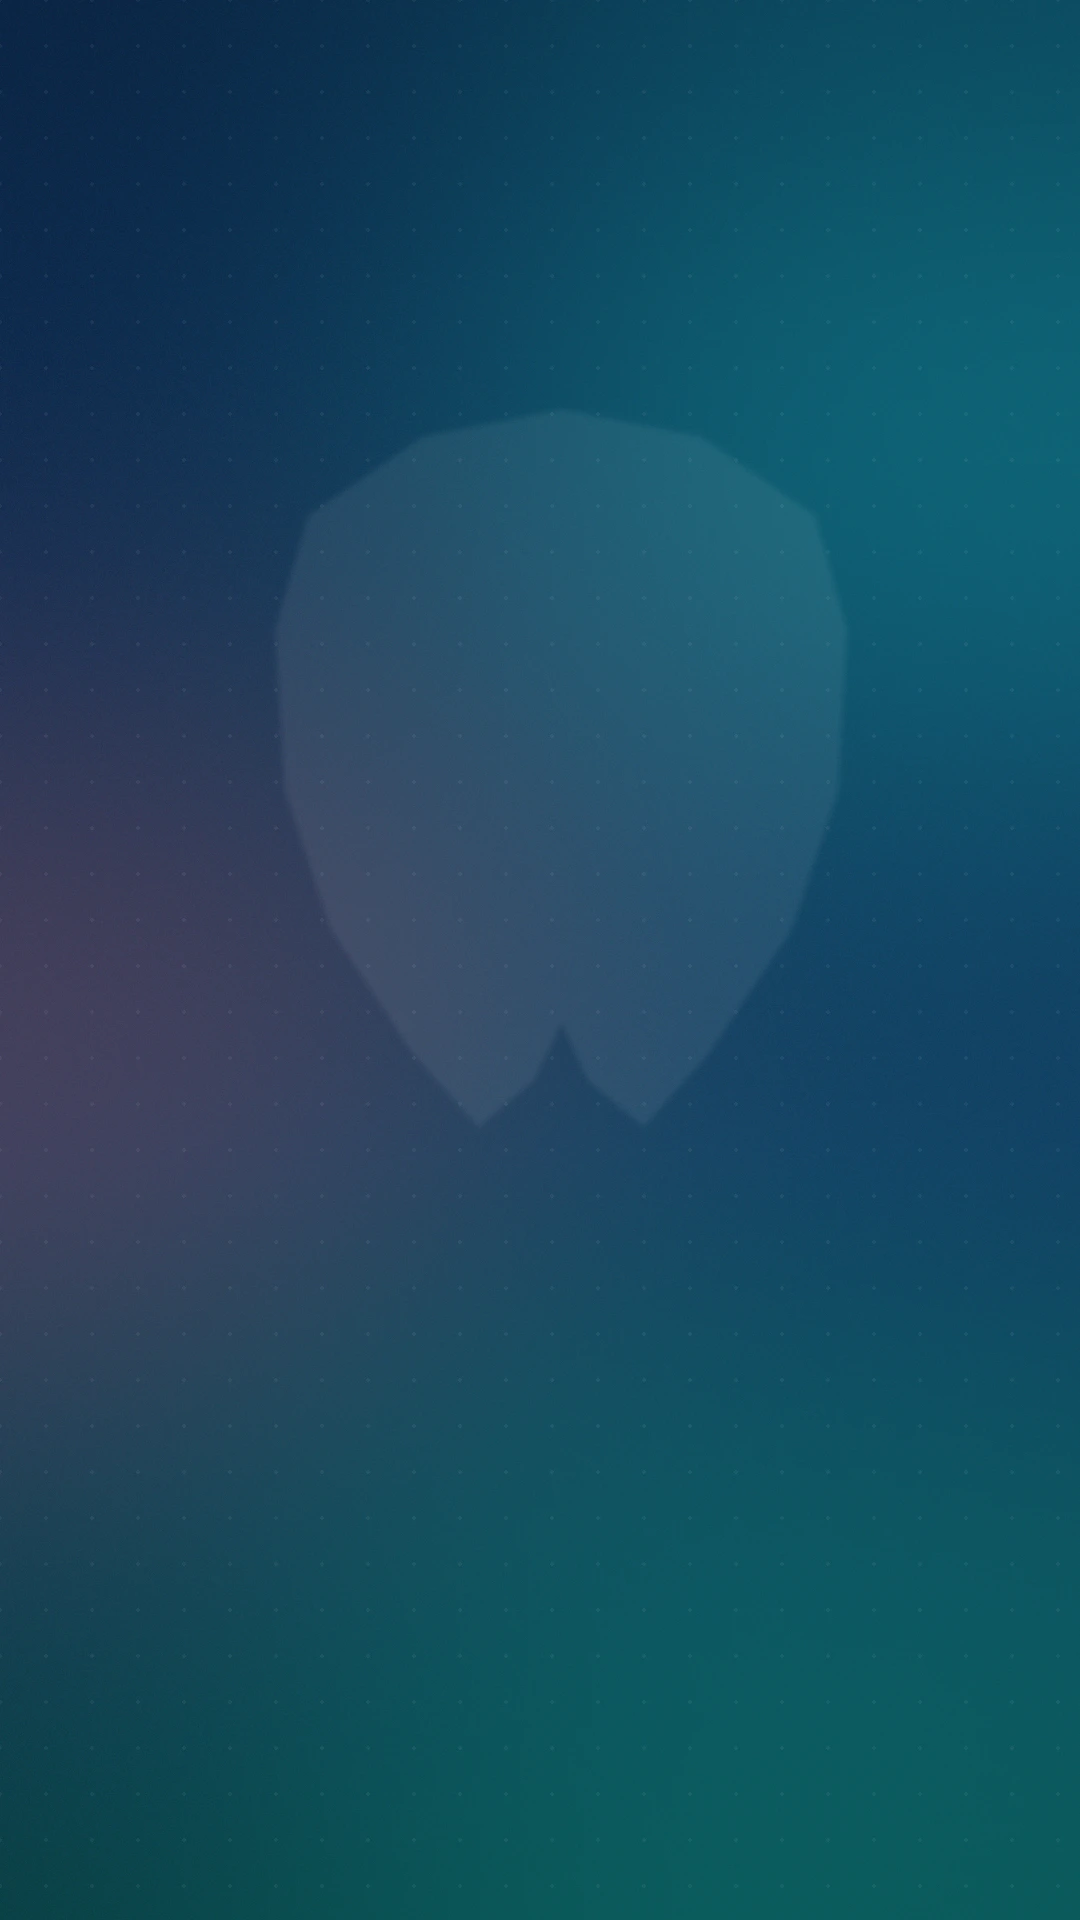
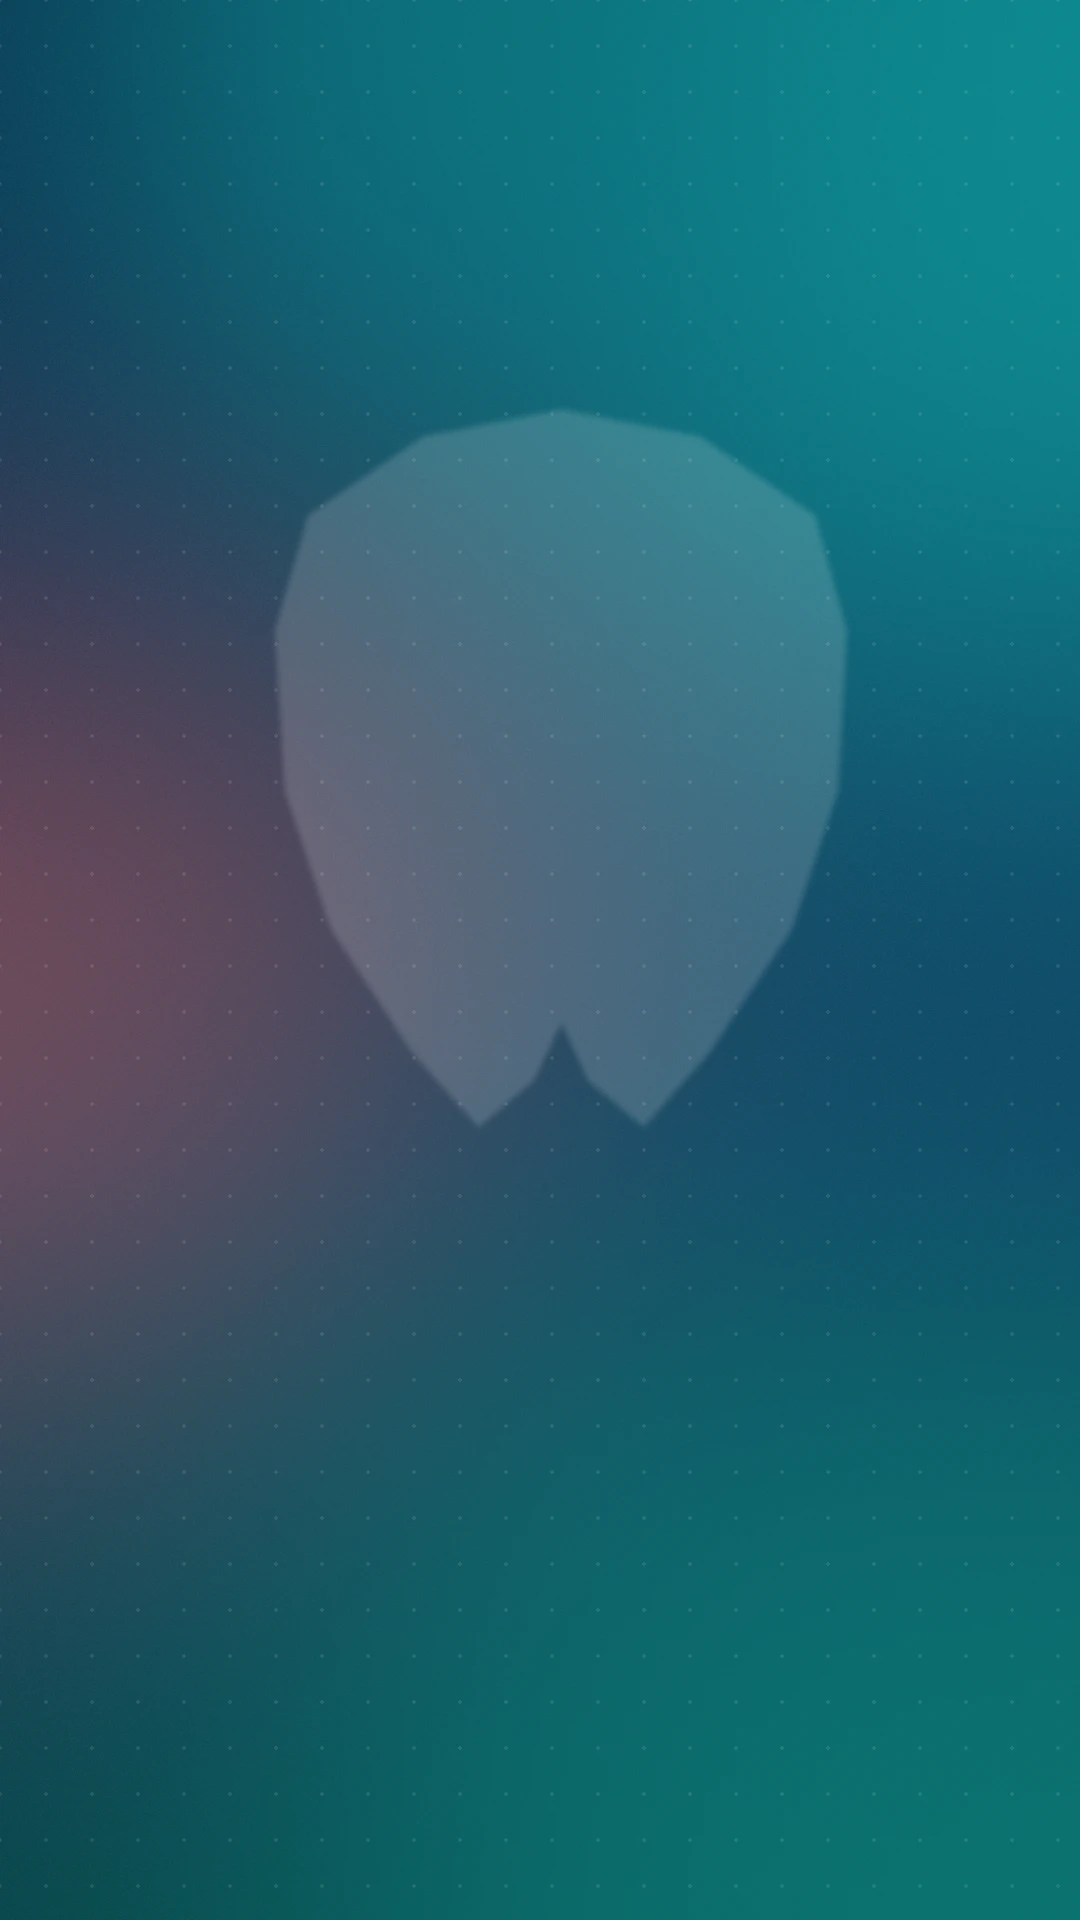
Popravi hero razmak i redizajniraj mobilnu pretragu
Hero sekcija je gubila levo/desno razmak jer je padding shorthand na
.hero-inner gazio horizontalni padding nasleđen od .container — sada
se koriste odvojena padding-top/padding-bottom svojstva. Pozadinska
slika hero sekcije je osvežena da bude vidljivija (jača providnost
gradijenta i markera).

Stranica Pronađi ordinaciju na mobilnom sada ima kompaktan gornji red
(polje za pretragu + dugme "Filteri" koje otvara fioku sa svim
filterima), listu ordinacija ispod, i plutajuće dugme na dnu ekrana
za prebacivanje između liste i mape prikaza.

diff --git a/css/style.css b/css/style.css
@@ -210,7 +210,7 @@ svg{display:block;}
   background:linear-gradient(180deg,rgba(6,25,45,.42),rgba(6,25,45,.56)),
     url('../img/hero.webp') center/cover no-repeat;
 }
-.hero-inner{position:relative;z-index:2;width:100%;padding:80px 0 64px;}
+.hero-inner{position:relative;z-index:2;width:100%;padding-top:80px;padding-bottom:64px;}
 .hero-badge{
   display:inline-flex;align-items:center;gap:8px;background:rgba(255,255,255,.12);
   border:1px solid rgba(255,255,255,.25);padding:8px 16px;border-radius:999px;
@@ -395,12 +395,19 @@ svg{display:block;}
   background:#fff;border-bottom:1px solid var(--border);padding:18px 0;position:sticky;top:76px;z-index:100;
 }
 .toolbar-row{display:flex;gap:12px;align-items:center;flex-wrap:wrap;}
-.toolbar-row .control{
+.toolbar-row .control,#mobileFilterExtraSlot .control{
   display:flex;align-items:center;gap:8px;border:1.5px solid var(--border);border-radius:10px;padding:10px 14px;background:#fbfdfd;flex:1;min-width:180px;
 }
-.toolbar-row .control svg{width:17px;height:17px;color:var(--primary);flex-shrink:0;}
-.toolbar-row select,.toolbar-row input{border:none;background:transparent;outline:none;width:100%;font-size:14px;}
+.toolbar-row .control svg,#mobileFilterExtraSlot .control svg{width:17px;height:17px;color:var(--primary);flex-shrink:0;}
+.toolbar-row select,.toolbar-row input,#mobileFilterExtraSlot select,#mobileFilterExtraSlot input{border:none;background:transparent;outline:none;width:100%;font-size:14px;}
 .toolbar-row .btn{flex-shrink:0;}
+.toolbar-selects{display:contents;}
+.mobile-filter-btn{
+  display:none;flex-shrink:0;align-items:center;gap:7px;height:44px;padding:0 16px;
+  border:1.5px solid var(--border);border-radius:10px;background:#fff;font-weight:600;font-size:13.5px;color:var(--text);
+}
+.mobile-filter-btn svg{width:17px;height:17px;color:var(--primary);}
+.mobile-near-me-btn{display:none;}
 
 .results-layout{display:grid;grid-template-columns:270px 1fr;gap:32px;align-items:start;padding:36px 0 80px;}
 @media(max-width:900px){
@@ -413,6 +420,10 @@ svg{display:block;}
   position:sticky;top:150px;max-height:calc(100vh - 170px);overflow-y:auto;
 }
 .filters-panel h4{font-size:15px;margin-bottom:14px;display:flex;align-items:center;justify-content:space-between;}
+.filters-close{display:none;background:var(--bg);border:none;width:32px;height:32px;border-radius:50%;align-items:center;justify-content:center;color:var(--text);flex-shrink:0;}
+.filters-close svg{width:15px;height:15px;}
+.mobile-filters-apply{display:none;}
+.filters-backdrop{display:none;}
 .filter-group{margin-bottom:24px;}
 .filter-group:last-child{margin-bottom:0;}
 .filter-group h5{font-size:12.5px;text-transform:uppercase;letter-spacing:.04em;color:var(--muted);margin-bottom:12px;}
@@ -631,6 +642,44 @@ svg{display:block;}
   .map-list-col{max-height:none;overflow:visible;}
   .map-col{position:relative;top:0;}
   #mapContainer{height:420px;}
+}
+
+/* ---------- Mobilni prikaz pretrage (filter fioka + plutajuće dugme mapa/lista) ---------- */
+.mobile-view-fab{display:none;}
+@media(max-width:860px){
+  .toolbar-row .control:not(:first-child){display:none;}
+  .toolbar-row #applyBtn,.toolbar-row #nearMeBtn{display:none;}
+  .mobile-filter-btn{display:flex;}
+  .mobile-near-me-btn{display:flex;align-items:center;justify-content:center;gap:8px;width:100%;margin-bottom:18px;}
+
+  .view-toggle{display:none;}
+
+  #mobileFilterExtraSlot .control{margin-bottom:12px;}
+  #mobileFilterExtraSlot .control:last-child{margin-bottom:24px;}
+
+  .filters-panel{
+    display:none;position:fixed;left:0;right:0;bottom:0;top:auto;
+    max-height:82vh;overflow-y:auto;border-radius:18px 18px 0 0;z-index:250;
+    box-shadow:0 -10px 30px rgba(15,35,55,.25);
+  }
+  .filters-panel.open{display:block;}
+  .filters-close{display:flex;}
+  .mobile-filters-apply{display:block;margin-top:6px;}
+  .filters-backdrop{display:none;position:fixed;inset:0;background:rgba(6,20,35,.45);z-index:240;}
+  .filters-backdrop.open{display:block;}
+
+  .map-list-col{display:none;}
+  #mapContainer{height:calc(100vh - 160px);}
+
+  .container-fluid{padding-bottom:90px;}
+
+  .mobile-view-fab{
+    display:flex;align-items:center;gap:8px;
+    position:fixed;left:50%;bottom:20px;transform:translateX(-50%);z-index:150;
+    background:var(--navy);color:#fff;border:none;padding:13px 24px;border-radius:999px;
+    font-weight:600;font-size:14px;box-shadow:0 8px 24px rgba(6,20,35,.4);
+  }
+  .mobile-view-fab svg{width:17px;height:17px;}
 }
 
 /* ---------- Cenovnik / paketi ---------- */

diff --git a/js/search.js b/js/search.js
@@ -22,15 +22,43 @@ let hoverHalo = null;
 let userMarker = null;
 let userCircle = null;
 
+const MOBILE_BREAKPOINT = 860;
+
 document.addEventListener('DOMContentLoaded', () => {
   populateSelects();
   populateServiceCheckboxes();
   readFiltersFromUrl();
   bindEvents();
   syncFiltersFromDom();
+  relocateFiltersForViewport();
   initMap();
-  setViewMode('map');
+  setViewMode(window.innerWidth <= MOBILE_BREAKPOINT ? 'list' : 'map');
 });
+
+window.addEventListener('resize', relocateFiltersForViewport);
+
+function relocateFiltersForViewport(){
+  const toolbarSelects = document.getElementById('toolbarSelects');
+  const mobileSlot = document.getElementById('mobileFilterExtraSlot');
+  const toolbarRow = document.querySelector('.toolbar-row');
+  if(!toolbarSelects || !mobileSlot || !toolbarRow) return;
+  const isMobile = window.innerWidth <= MOBILE_BREAKPOINT;
+  if(isMobile && toolbarSelects.parentElement !== mobileSlot){
+    mobileSlot.appendChild(toolbarSelects);
+  } else if(!isMobile && toolbarSelects.parentElement !== toolbarRow){
+    const applyBtn = document.getElementById('applyBtn');
+    toolbarRow.insertBefore(toolbarSelects, applyBtn);
+  }
+}
+
+function openFiltersDrawer(){
+  document.querySelector('.filters-panel').classList.add('open');
+  document.getElementById('filtersBackdrop').classList.add('open');
+}
+function closeFiltersDrawer(){
+  document.querySelector('.filters-panel').classList.remove('open');
+  document.getElementById('filtersBackdrop').classList.remove('open');
+}
 
 function populateSelects(){
   const citySel = document.getElementById('cityInput');
@@ -142,6 +170,21 @@ function bindEvents(){
   });
 
   document.getElementById('clearDistanceBtn').addEventListener('click', showAllIgnoringDistance);
+
+  document.getElementById('mobileFilterBtn').addEventListener('click', openFiltersDrawer);
+  document.getElementById('filtersCloseBtn').addEventListener('click', closeFiltersDrawer);
+  document.getElementById('filtersBackdrop').addEventListener('click', closeFiltersDrawer);
+  document.getElementById('mobileFiltersApply').addEventListener('click', closeFiltersDrawer);
+
+  document.getElementById('mobileNearMeBtn').addEventListener('click', ()=>{
+    closeFiltersDrawer();
+    setViewMode('map');
+    requestUserLocation(true);
+  });
+
+  document.getElementById('mobileViewFab').addEventListener('click', ()=>{
+    setViewMode(viewMode === 'map' ? 'list' : 'map');
+  });
 }
 
 function getSelectedServices(){
@@ -320,6 +363,10 @@ function setViewMode(mode){
   document.getElementById('viewMapBtn').classList.toggle('active', mode==='map');
   document.getElementById('resultsGrid').style.display = mode==='list' ? 'grid' : 'none';
   document.getElementById('mapSplit').style.display = mode==='map' ? 'grid' : 'none';
+  const fabLabel = document.getElementById('mobileViewFabLabel');
+  const fabIcon = document.getElementById('mobileViewFabIcon');
+  if(fabLabel) fabLabel.textContent = mode === 'map' ? 'Lista' : 'Mapa';
+  if(fabIcon) fabIcon.innerHTML = mode === 'map' ? ICONS.list : ICONS.compass;
   if(mode==='map' && leafletMap){
     setTimeout(()=>{ leafletMap.invalidateSize(); }, 60);
   }

diff --git a/pretraga.html b/pretraga.html
@@ -57,16 +57,19 @@
         <span data-icon="search"></span>
         <input type="text" id="queryInput" placeholder="Pretraži po nazivu ordinacije...">
       </div>
-      <div class="control">
-        <span data-icon="location"></span>
-        <select id="cityInput"><option value="">Svi gradovi</option></select>
-      </div>
-      <div class="control">
-        <span data-icon="tooth"></span>
-        <select id="serviceInput"><option value="">Sve usluge</option></select>
+      <div class="toolbar-selects" id="toolbarSelects">
+        <div class="control">
+          <span data-icon="location"></span>
+          <select id="cityInput"><option value="">Svi gradovi</option></select>
+        </div>
+        <div class="control">
+          <span data-icon="tooth"></span>
+          <select id="serviceInput"><option value="">Sve usluge</option></select>
+        </div>
       </div>
       <button class="btn btn-primary" id="applyBtn">Pretraži</button>
       <button class="btn btn-outline-navy" id="nearMeBtn" type="button"><span data-icon="pin"></span> Blizu mene</button>
+      <button class="mobile-filter-btn" id="mobileFilterBtn" type="button"><span data-icon="filter"></span> Filteri</button>
     </div>
   </div>
 </div>
@@ -75,8 +78,19 @@
   <div id="locationBanner" style="display:none;margin-top:24px;"></div>
 
   <div class="results-layout" style="margin-top:24px;">
+    <div class="filters-backdrop" id="filtersBackdrop"></div>
     <aside class="filters-panel">
-      <h4>Filteri <a href="#" class="link-reset" id="resetFilters">Resetuj</a></h4>
+      <h4>
+        <span>Filteri</span>
+        <span style="display:flex;align-items:center;gap:16px;">
+          <a href="#" class="link-reset" id="resetFilters">Resetuj</a>
+          <button type="button" class="filters-close" id="filtersCloseBtn" aria-label="Zatvori"><span data-icon="close"></span></button>
+        </span>
+      </h4>
+
+      <button type="button" class="btn btn-outline-navy btn-sm mobile-near-me-btn" id="mobileNearMeBtn"><span data-icon="pin"></span> Ordinacije blizu mene</button>
+
+      <div id="mobileFilterExtraSlot"></div>
 
       <div class="filter-group">
         <h5>Cenovni rang</h5>
@@ -112,6 +126,8 @@
           Samo verifikovane ordinacije
         </label>
       </div>
+
+      <button type="button" class="btn btn-primary btn-block mobile-filters-apply" id="mobileFiltersApply">Prikaži rezultate</button>
     </aside>
 
     <div>
@@ -164,6 +180,10 @@
       </div>
     </div>
   </div>
+
+  <button type="button" class="mobile-view-fab" id="mobileViewFab">
+    <span id="mobileViewFabIcon" data-icon="compass"></span> <span id="mobileViewFabLabel">Mapa</span>
+  </button>
 </div>
 
 <footer class="site-footer">
